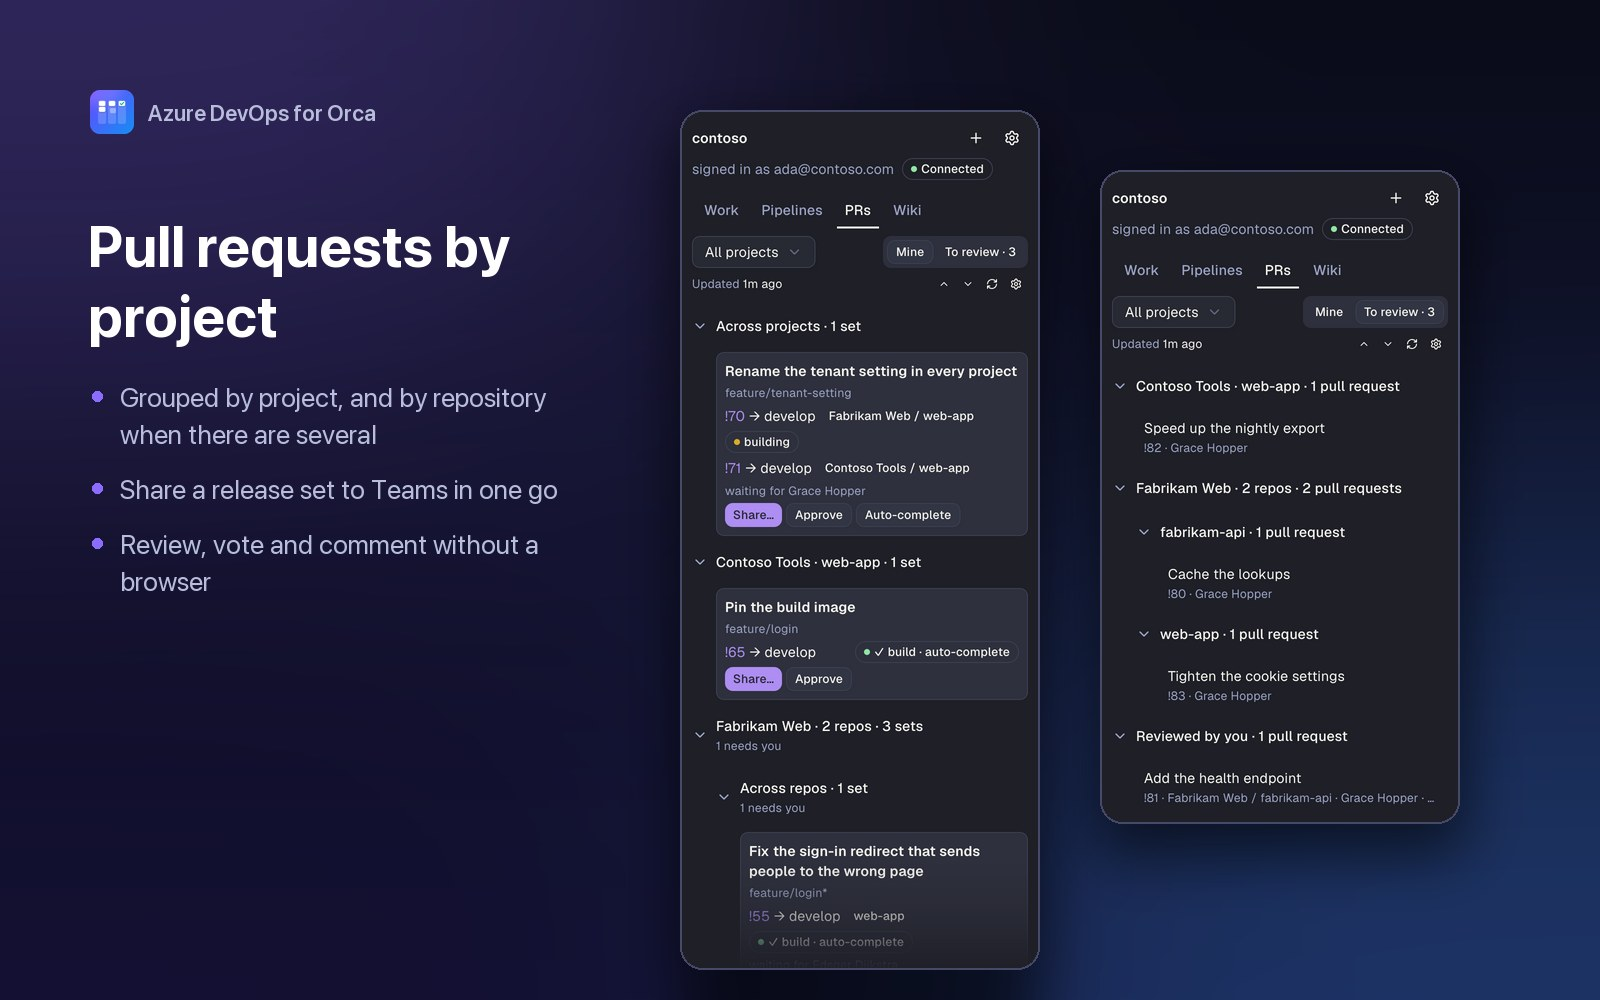
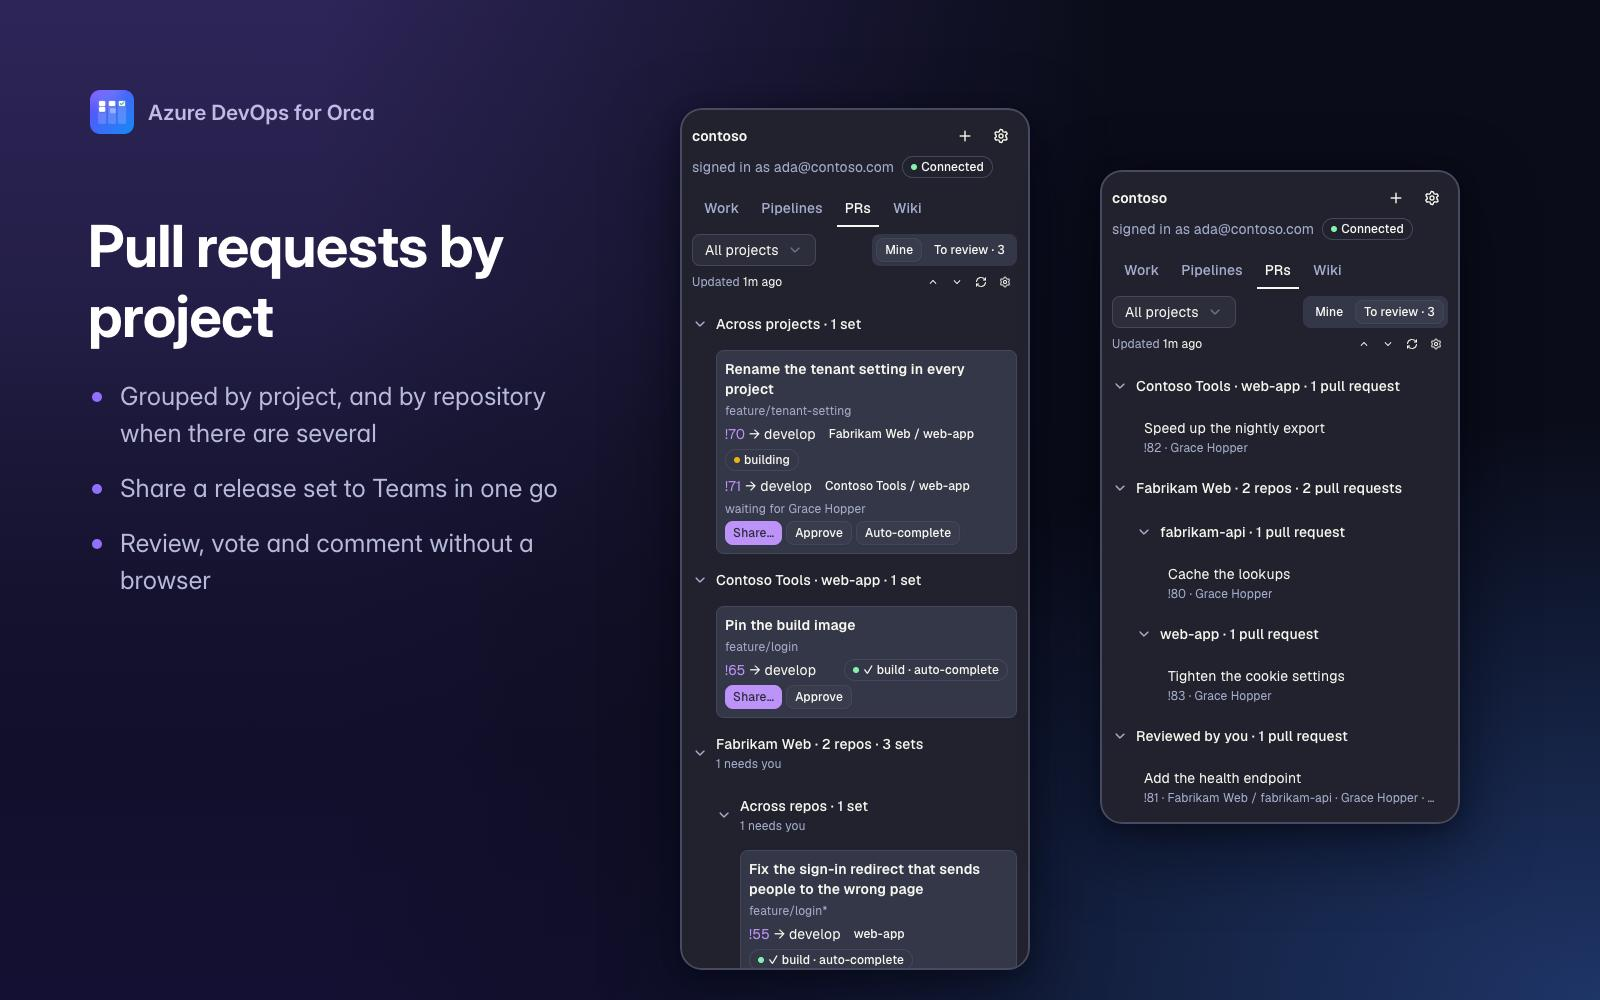
Show the interactive board and one-click start in the cover and screenshots
The cover leads with the full-tab board and a card's panel. A new board
screenshot comes first, and the Work screenshot now shows an item's
details choosing Clone from Azure DevOps before Start a workspace and
agent. Every image is composed from orca plugin shot scenario and
editor shots of fixture data and encoded to JPEG once, at quality 75.

A workStart check scenario opens an item's details with ranked
repositories, so plugin check covers the start picker.

diff --git a/src/panel/panel.check.ts b/src/panel/panel.check.ts
@@ -1,11 +1,12 @@
 import { defineCheck } from 'orca/testing'
 import type { OrgStatus } from '../shared/types'
-import type { WorkSnapshot } from '../shared/work'
+import type { StartRepos, WorkItemDetails, WorkSnapshot } from '../shared/work'
 import { approvalOf, MINUTE, NOW as RUN_NOW, runOf, runsSnapshotOf, stageOf, waitingRun } from './pipelines/fixtures'
 import { workViewKey } from './prefs'
 import { prOf as summaryOf, reviewerOf, setOf, snapshotOf } from './prs/fixtures'
 import { OPEN_REVIEW, reviewOf } from './prs/review/fixtures'
 import { CARDS_CONTENT, draftOf, LEVELS, OPEN_PAGE, pageOf, PROJECT_WIKI } from './wiki/fixtures'
+import { openDetails } from './work/item-details'
 import { board, BOARDS, item, LANES, listOf, parentOf, pr, snapshotOf as snapshotOfWork, task, workTask } from './work/fixtures'
 
 function org(name: string, over: Partial<OrgStatus> = {}): OrgStatus {
@@ -61,6 +62,32 @@ const workLanesSnapshot: WorkSnapshot = {
   board: board('contoso', { lanes: LANES }),
   mine: workSnapshot.mine.map(each => (each.id === 102 ? { ...each, lane: 'Expedite' } : each)),
   families: { ...workSnapshot.families, parents: workSnapshot.families.parents.map(parent => ({ ...parent, lane: 'Expedite' })) }
+}
+
+const startDetails: WorkItemDetails = {
+  item: workSnapshot.mine[0],
+  descriptionMd: 'People land on the **wrong page** after signing in.',
+  acceptanceMd: '',
+  assignee: null,
+  comments: [{ id: 1, author: 'Grace Hopper', createdAt: NOW - 3_600_000, textMd: 'Reproduced on staging.' }],
+  links: [],
+  tasks: [],
+  moreTasks: 0,
+  tasksRead: true,
+  prs: [],
+  taskTypes: [],
+  taskType: null,
+  readAt: NOW
+}
+
+const startRepos: StartRepos = {
+  repos: [
+    { key: 'contoso/fabrikam web/web-app', name: 'web-app', detail: 'Fabrikam Web', source: 'pr' },
+    { key: 'contoso/fabrikam web/fabrikam-api', name: 'fabrikam-api', detail: 'Fabrikam Web', source: 'last' },
+    { key: 'contoso/contoso tools/web-app', name: 'web-app', detail: 'Contoso Tools', source: 'org' }
+  ],
+  selected: 'contoso/fabrikam web/web-app',
+  clone: { folder: '~/orca/repos' }
 }
 
 const WEB_API = { repoId: 'repo-api', repoName: 'fabrikam-api' }
@@ -167,6 +194,19 @@ export default defineCheck({
       'orgs.list': [org('contoso', { boards: BOARDS })],
       'ui.visibility': { ok: true },
       'work.snapshot': workLanesSnapshot
+    }
+  },
+  workStart: {
+    requests: {
+      'orgs.list': [org('contoso', { boards: BOARDS })],
+      'ui.visibility': { ok: true },
+      'work.snapshot': () => {
+        openDetails('contoso', 101)
+        return workSnapshot
+      },
+      'work.details': startDetails,
+      'work.itemWorkspace': { workspace: null, unsupported: null },
+      'work.startRepos': startRepos
     }
   },
   prs: {

diff --git a/README.md b/README.md
@@ -1,8 +1,8 @@
 # Azure DevOps for Orca
 
-![Azure DevOps for Orca: boards, pull requests, pipelines and wikis in the Orca sidebar](assets/cover.jpg)
+![Azure DevOps for Orca: a board you can work in, one-click agents, and pull requests, pipelines and wikis](assets/cover.jpg)
 
-Azure DevOps work items, boards, pull requests, pipelines and wikis in the [Orca](https://github.com/stablyai/orca) sidebar. Connect any number of organisations with the Azure CLI, a Microsoft account or a personal access token, and each one stays pinned to the account you signed in with.
+Azure DevOps work items, pull requests, pipelines and wikis in the [Orca](https://github.com/stablyai/orca) sidebar, a full-tab board you can work in, and a workspace and agent started from any item in one click. Connect any number of organisations with the Azure CLI, a Microsoft account or a personal access token, and each one stays pinned to the account you signed in with.
 
 Unofficial: not made or endorsed by Microsoft. Azure DevOps is a trademark of Microsoft.
 
@@ -30,11 +30,17 @@ Then open **Azure DevOps** in Orca's sidebar and connect an organisation, as [Co
 
 <table>
   <tr>
-    <td width="50%"><img src="assets/screenshots/work.jpg" alt="The Work tab by board column, with tasks inside their story, and by the board's swimlanes"></td>
+    <td colspan="2"><img src="assets/screenshots/board.jpg" alt="The full-tab board with a card's details open: description, tasks, a pull request and its check, a comment and the start footer"></td>
+  </tr>
+  <tr>
+    <td colspan="2">A board you can work in: open a card to comment, reassign, tick off tasks or start an agent.</td>
+  </tr>
+  <tr>
+    <td width="50%"><img src="assets/screenshots/work.jpg" alt="The Work tab by board column, and an item's details with Clone from Azure DevOps and Start a workspace and agent"></td>
     <td width="50%"><img src="assets/screenshots/pull-requests.jpg" alt="The PRs tab with release sets grouped by project, and the To review list"></td>
   </tr>
   <tr>
-    <td>Your board in the sidebar, by column or by swimlane, with tasks inside their story.</td>
+    <td>Start a workspace and agent from any item, in a repository in Orca or one it clones.</td>
     <td>Pull requests grouped by project, ready to share, approve or review.</td>
   </tr>
   <tr>

diff --git a/docs/release-checklist.md b/docs/release-checklist.md
@@ -45,6 +45,8 @@ Run these from a clean working tree at the commit to release, and name that comm
 
 5. **Images.** The icon and screenshots meet Orca's rules, which `worker/manifest.test.ts` checks, and the screenshots show fixture data only.
 
+   The cover and screenshots are composed from `orca plugin shot` scenario and editor shots of fixture data, with a kit kept outside this repository, and each is encoded to JPEG once.
+
 6. **The docs.** The settings list in [docs/reference.md](reference.md) matches the manifest, the pending live checks in [docs/development.md](development.md) are current, and the README stays a short landing page.
 
 7. **The license.** MIT ([Plan 1](https://github.com/kloppers-labs/orca-azure-devops/blob/v0.3.0/docs/superpowers/plans/2026-11-03-plan-1-foundation.md)'s call). The user confirms it.

diff --git a/docs/development.md b/docs/development.md
@@ -134,7 +134,7 @@ Microsoft sign-in and network:
 - Sign out, then Reconnect, which needs the browser again.
 - A proxy, only on a network that has one.
 - On the client organisation, read-only: Sign in with Microsoft with the client tenant's app, when one exists.
-- Screenshots of the Work, PRs and Pipelines views in both themes, taken with Orca minimised.
+- The board and the Work, PRs and Pipelines views in both themes on a real organisation. The cover and screenshots show fixture data in the dark theme only.
 
 Panel overhaul:
 
